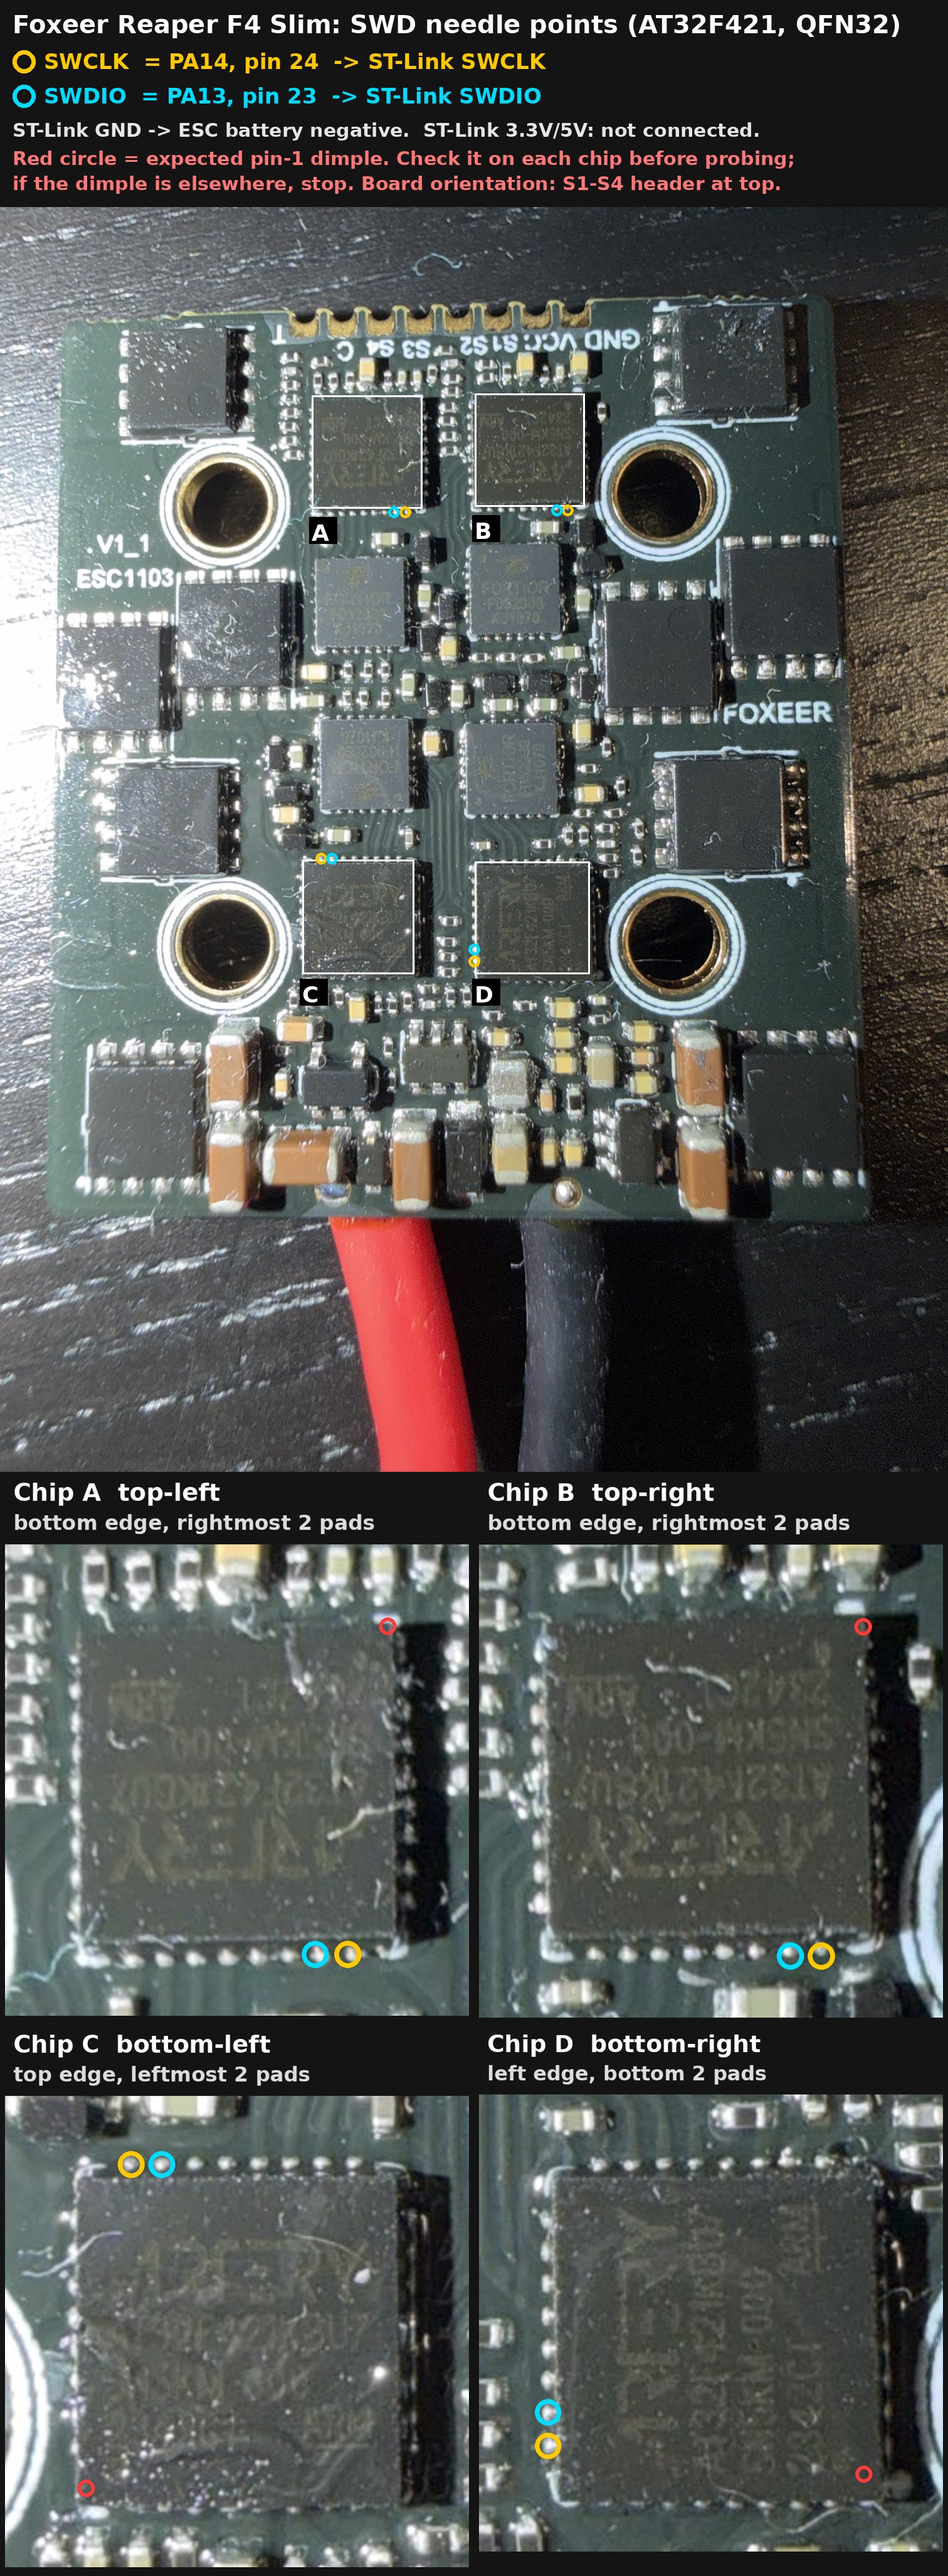
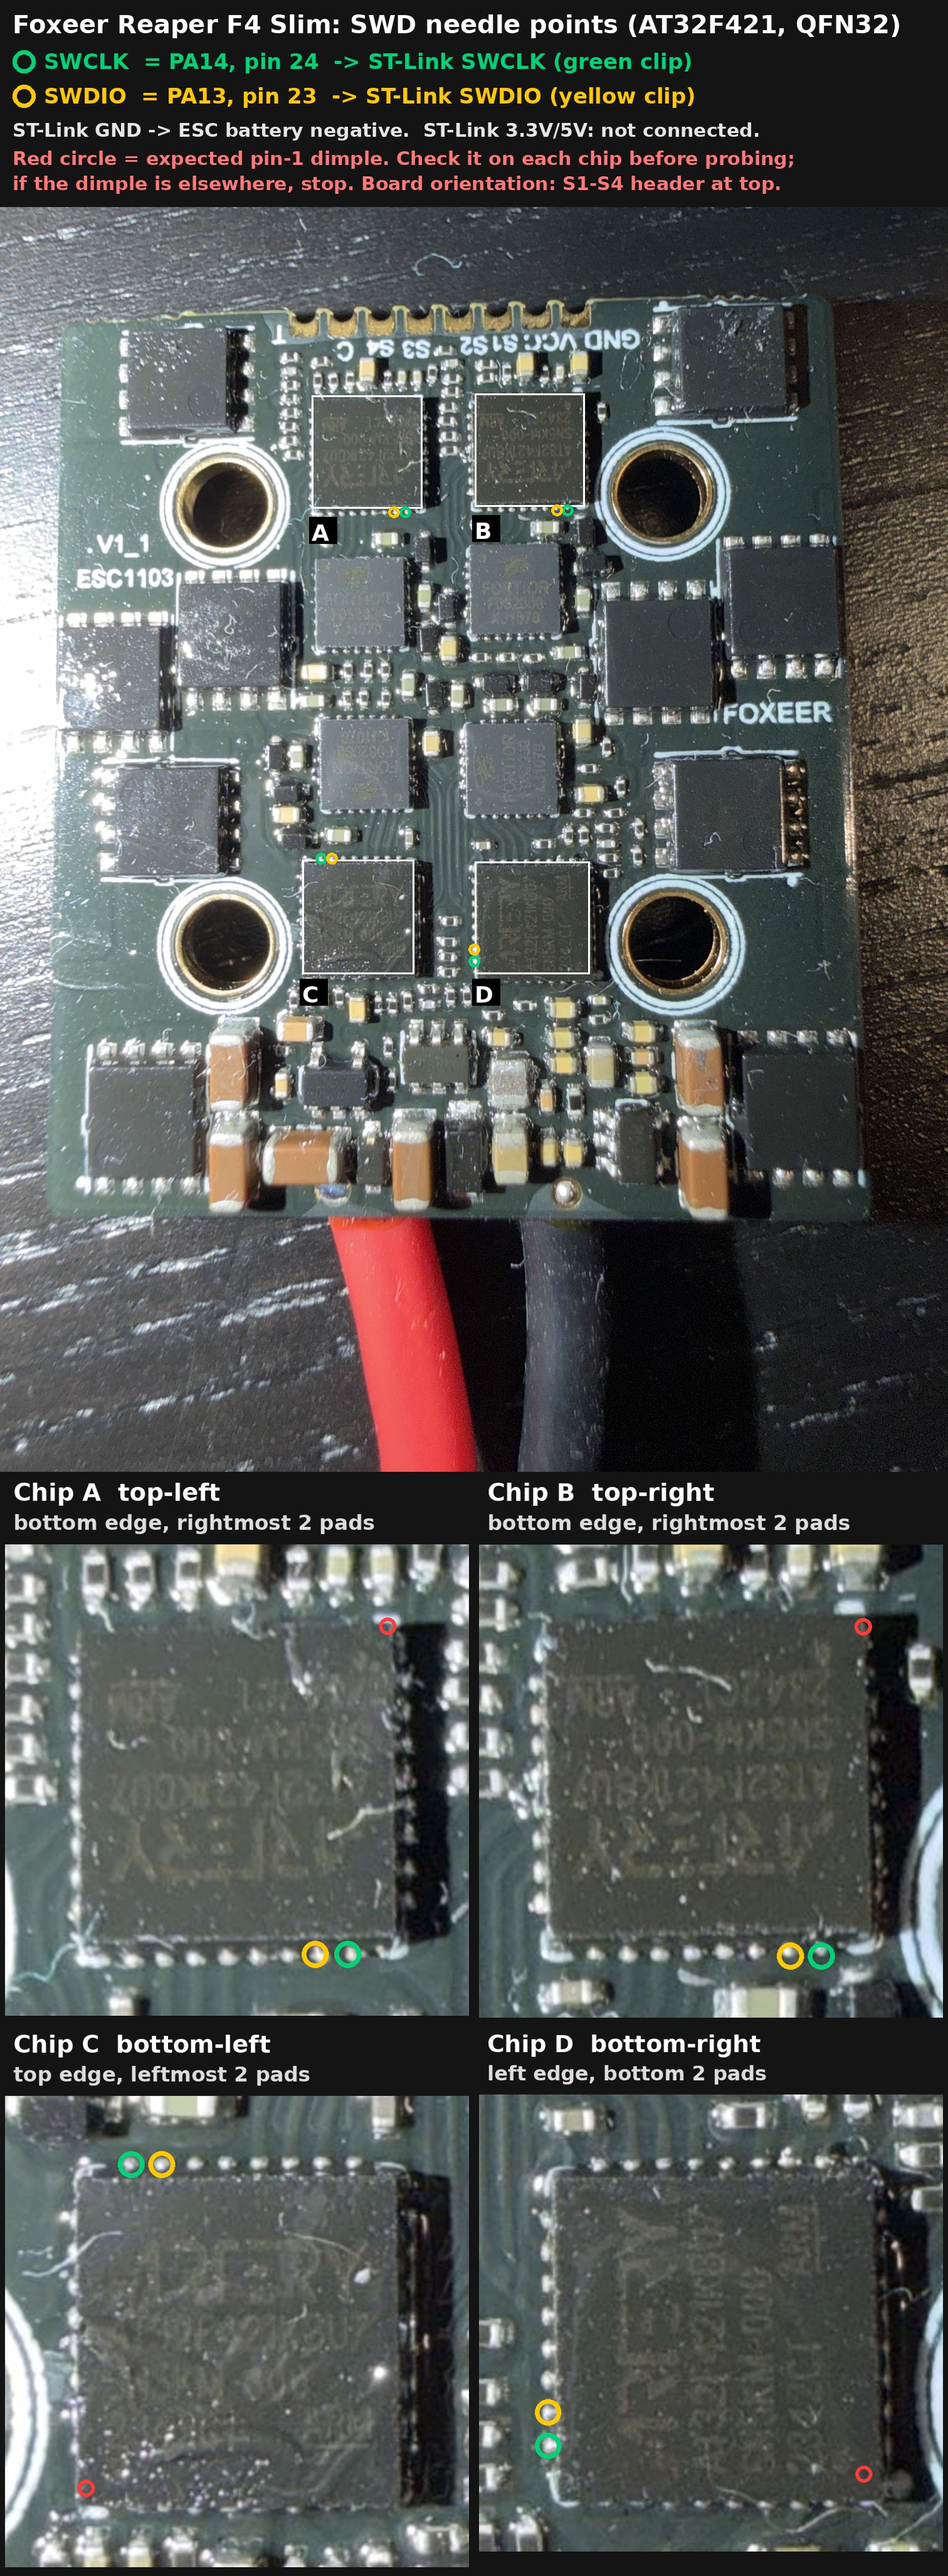
Match needle map colours to clip colours (green SWCLK, yellow SWDIO)

diff --git a/README.md b/README.md
@@ -50,7 +50,7 @@ All bundled tools are unmodified upstream releases under GPL-3.0 (see `third_par
 You don't need pogo pins or a probe station. This is the setup used for the boards above:
 
 - Dupont jumpers from the ST-Link V2 header (**SWCLK, SWDIO, GND**, as printed on the stick) go to alligator-clip leads.
-- A **sewing needle** is clamped in each of the two SWD clips. The needle tips are your probes for pins 24 and 23.
+- A **sewing needle** is clamped in each of the two SWD clips: **green = SWCLK**, **yellow = SWDIO**, matching the needle map. SWD has no standard wire colours, so just keep your clips consistent with the map. The needle tips are your probes for pins 24 and 23.
 - The third clip (GND) goes onto the ESC battery-negative pad or lead.
 - Leave the ST-Link 3.3V and 5.0V pins unconnected.
 
